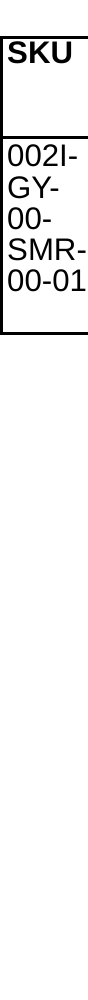
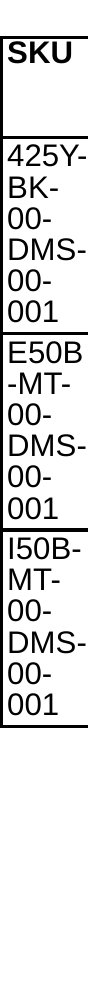
update

diff --git a/py31.py b/py31.py
@@ -3,7 +3,7 @@ import re
 def correct_sku(raw_text):
    
 
-    pattern = r'([0-9OIl]{3}[A-ZOlI])-([A-Z]{2})-(\d{2})-([A-Z]{3})-(\d{2})-(\d{3})'
+    pattern = r'([0-9A-ZOIl]{3}[A-ZOl1I])-([A-Z]{2})-(\d{2})-([A-Z]{3})-(\d{2})-(\d{3})'
 
     matches = re.findall(pattern, raw_text)
 
@@ -12,6 +12,7 @@ def correct_sku(raw_text):
     for part1, part2, part3, part4, part5, part6 in matches:
         # Sửa các lỗi OCR
         digits = part1[:3].replace('I', '1').replace('O', '0')
+        # digits = part1[:1].replace('1', 'I').replace('0', 'O')
         letter = part1[3]
         if letter == '1': letter = 'I'
         elif letter == '0': letter = 'O'

diff --git a/py30.py b/py30.py
@@ -21,7 +21,7 @@ sys.stdout.reconfigure(encoding='utf-8')
 
 # Define file paths (equivalent to __DIR__ in PHP)
 current_dir = os.path.dirname(os.path.abspath(__file__))
-input_file = os.path.join(current_dir, 't38.pdf')
+input_file = os.path.join(current_dir, 't39.pdf')
 output_file = os.path.join(current_dir, 'cropped1169.png')
 
 array =[]
@@ -168,7 +168,7 @@ def cut3(filepath):
     pdf_path = filepath
     i=0
     # indexpage = i+1
-    indexpage =61
+    indexpage =2
     # Bước 1: Đọc chỉ trang 116 (số bắt đầu từ 1)
     pages = convert_from_path(pdf_path, dpi=300, first_page=indexpage, last_page=indexpage)
 
